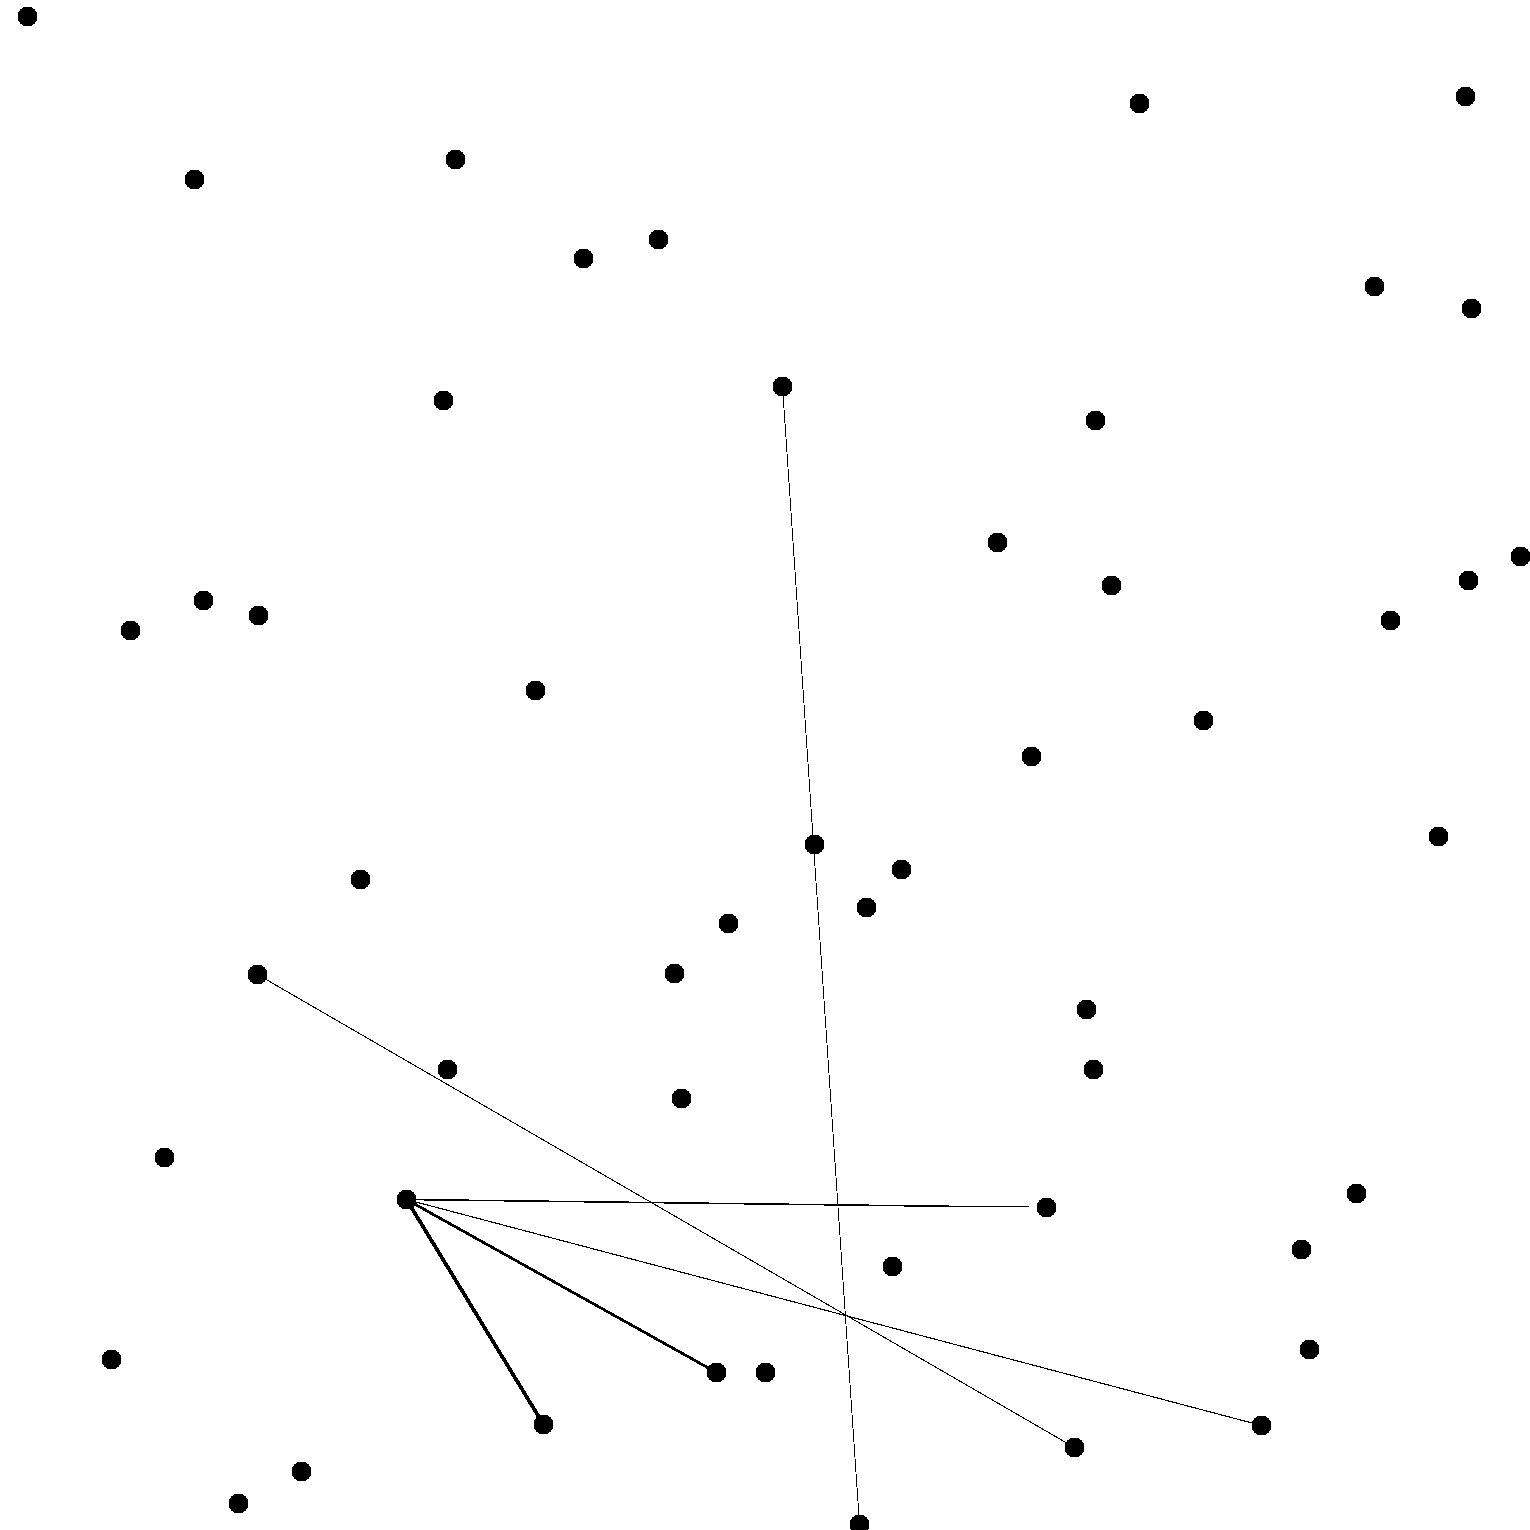
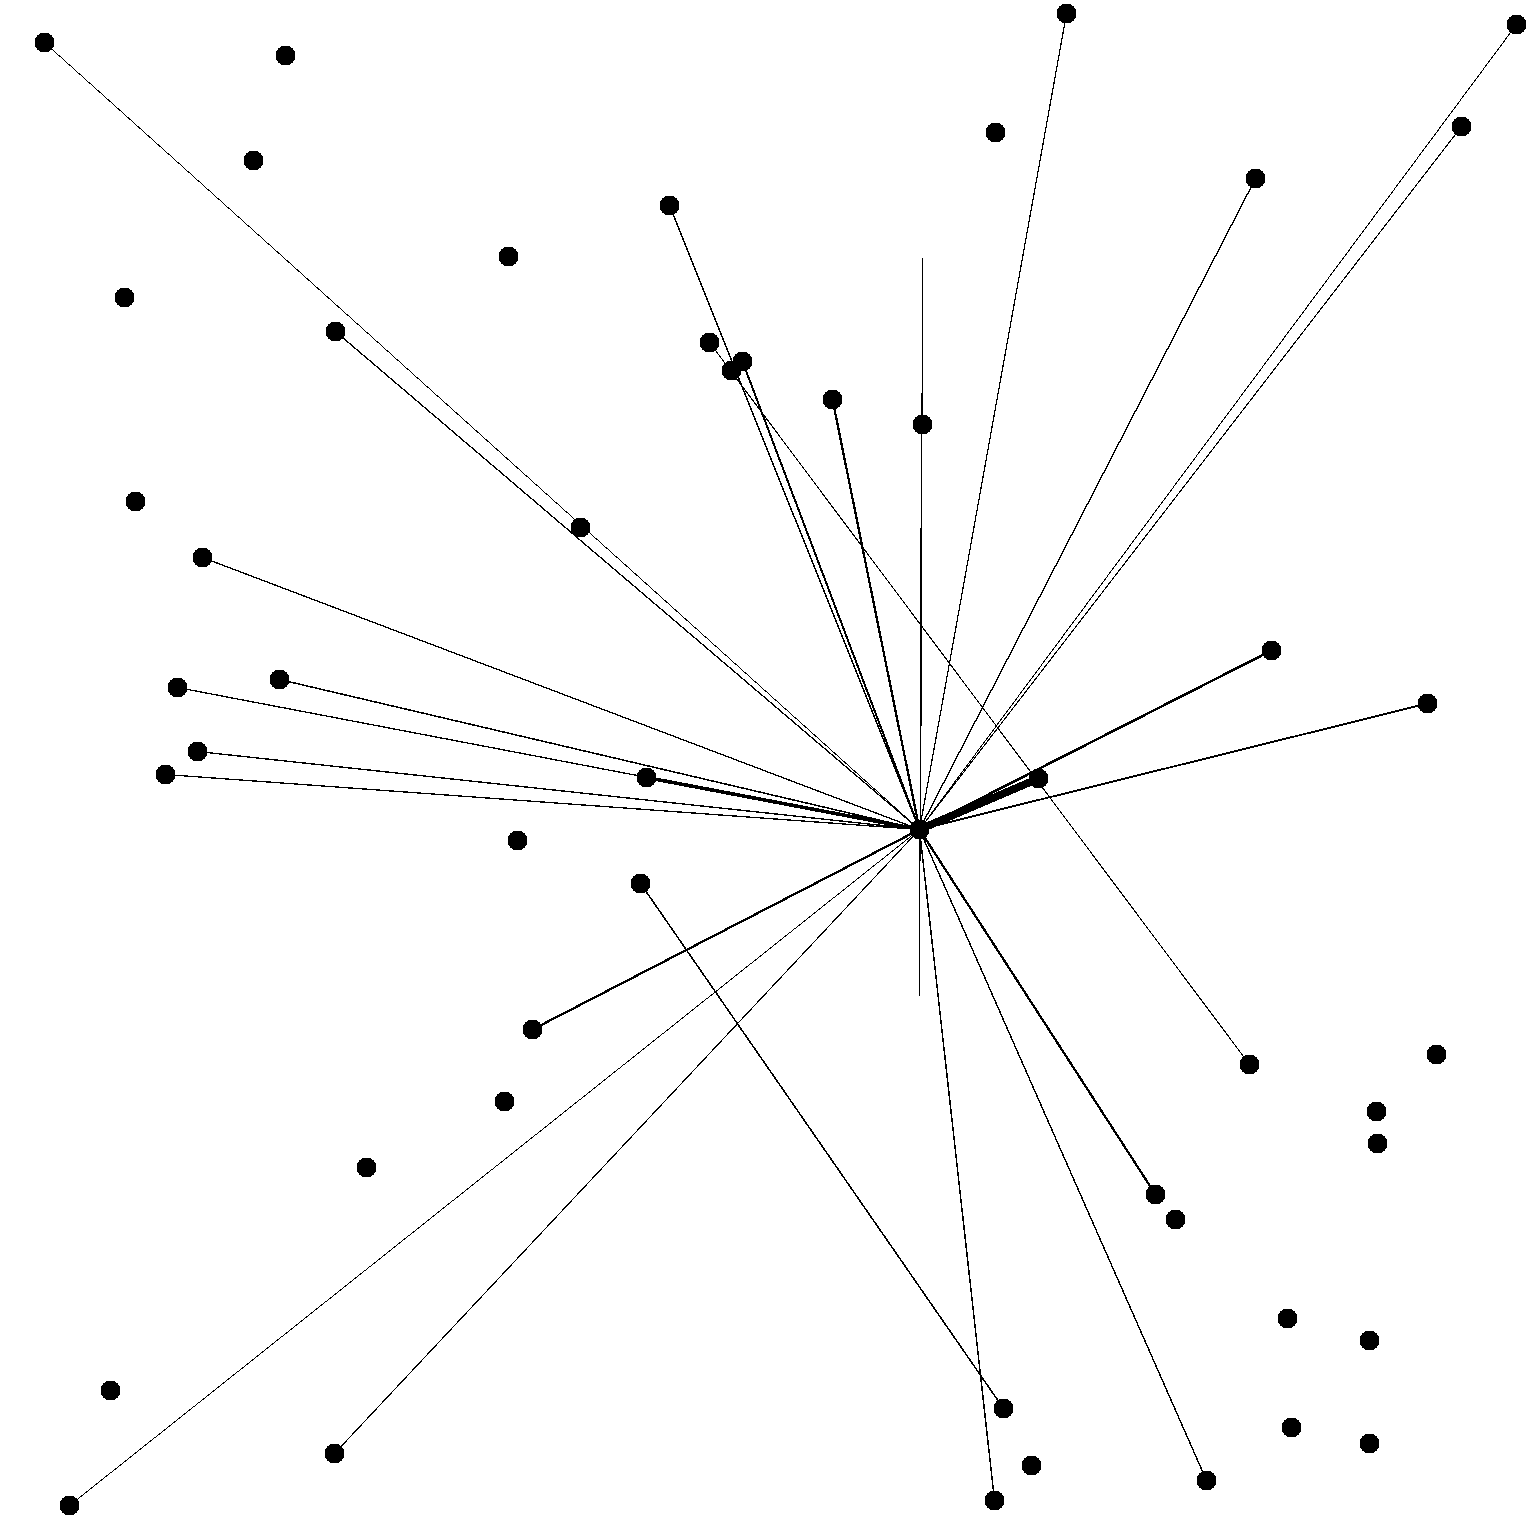
edges added to graph visualization

diff --git a/forceDirected.cpp b/forceDirected.cpp
@@ -122,19 +122,21 @@ cs225::PNG* GraphVisualization::drawGraph(map<string, pair<int, int>> layout) {
             //slope of line btwn the two points
             //double m = (y2 - y1 / (x2 - x1);
             //double b = 
-            for(int x = a; x < c; x++) {
-                for(int y = b; y < d; y++) {
+            int count = 0;
+            for(int x = 0; x < (int) output->width(); x++) {
+                for(int y = 0; y < (int) output->height(); y++) {
                     //all pixels on the line between the two points become black
                     if(abs((c-a)*(y-b)-(d -b)*(x-a)) < 500) {
-                        /*if((x == c && y == d) ||(x == a && y == a)) {
-                            break;
-                        }*/
-                        //for(int x1 = x - 2; x1 < x + 2; x1++) {
-                            //for(int y1 = y - 2; y1 < y + 2; y1++) {
-                                cs225::HSLAPixel & pixel2 = png->getPixel(x, y);
-                                pixel2.l = 0;
-                            //}
-                        //}
+                        if((x == a && y == b)) {
+                            count++;
+                        }
+                        if((x == c && y == d)) {
+                            count++;
+                        }
+                        if(count == 1) {
+                            cs225::HSLAPixel & pixel2 = png->getPixel(x, y);
+                            pixel2.l = 0;
+                        }
                     }
                 }
             }
